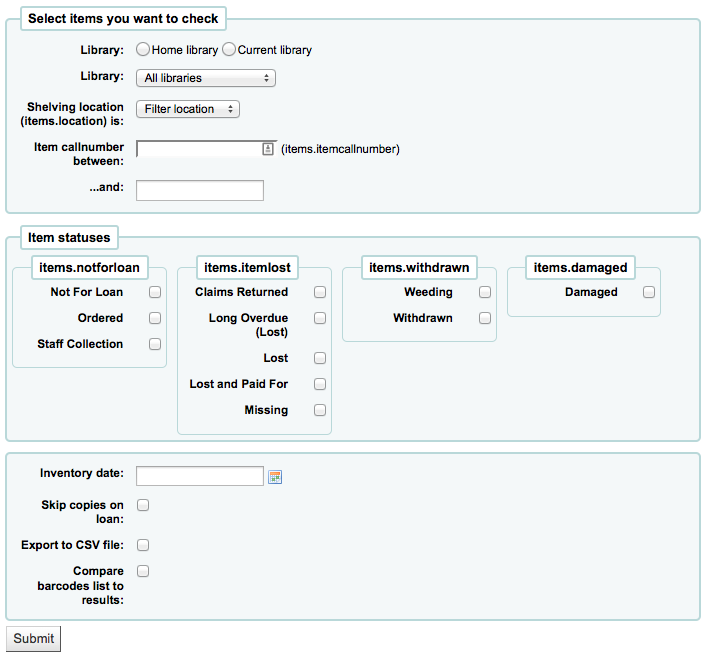
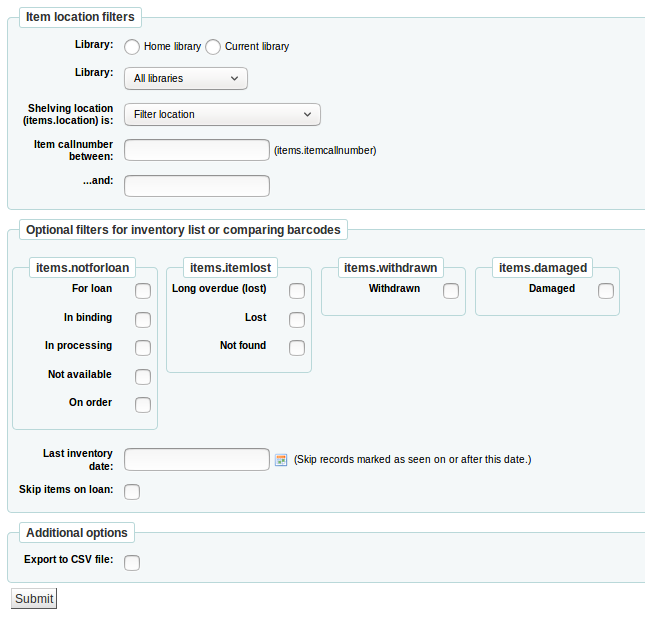
Updates Tools > Inventory section with improvements introduced in bug 19584 (Taiga #267)

Changed region(s): [[0.0, 0.0, 0.9922, 1.0], [0.4031, 0.7343, 0.8372, 0.7649], [0.9922, 0.8261, 1.0, 0.8567]]

diff --git a/source/tools.rst b/source/tools.rst
@@ -1938,9 +1938,11 @@ Inventory
 
 -  *Get there:* More > Tools > Catalog > Inventory
 
-Koha's Inventory Tool can be used in one of three ways:
+Koha's Inventory tool can be used in one of three ways:
 1. By printing out a shelf list that you can then mark items off on;
+
 2. By uploading a text file of barcodes gathered by a portable scanner;
+
 3. By comparing a text file of barcodes gathered by a portable scanner to a
    generated shelf list.
 
@@ -1955,8 +1957,10 @@ All parameters are optional, but if none are selected, the resulting list
 might be quite large.
 
 - Library: choose the branch you want to check, as well as if that branch
-  is the home library or the current of the items.
+  is the home library or the current holding library of the items.
+
 - Shelving location (items.location) is: you can filter by location.
+
 - Item callnumber between ... and ...: you can also limit the list to a specific
   range of callnumbers.
 
@@ -1967,6 +1971,7 @@ only the 'for loan' status as the other items probably won't be on the shelves.
 
 - Last inventory date: enter a date here to skip items that have been marked
   as seen recently.
+
 - Skip items on loan: check this box to filter out loaned items from the list.
 
 - Export to CSV file: check this box to generate a CSV file for altering in an
@@ -1985,15 +1990,17 @@ the three buttons to continue:
 
 - Mark seen and quit: updates the 'last seen' date of the checked items to
   today and returns to the previous screen.
+
 - Mark seen and continue: updates the 'last seen' date of the checked items to
   today and shows the next page of the list.
+
 - Continue without marking: doesn't update any of the items on this page
   and shows the next page of the list.
 
 If you have a portable scanner (or a laptop and USB scanner) you can
 walk through the library with the scanner in hand and scan barcodes as
-you come across them (on a laptop, scan the barcodes into a text file). Once finished you can then upload the text
-file generated by the scanner to Koha.
+you come across them (on a laptop, scan the barcodes into a text file). Once 
+finished you can then upload the text file generated by the scanner to Koha.
 
 |image317|
 
@@ -2006,27 +2013,33 @@ items scanned during inventory' before clicking 'Submit'.
 
 Alternatively, you can combine the two methods to automatically compare a list
 of scanned barcodes with a generated list. First, upload you barcode file and
-choose the date you want to appear in the items' 'last seen' field. Then, check
-the 'Compare barcodes list to results'. Choose the filters (library, shelving
-location, callnumbers or statuses) to generate a list with which to compare
-your barcodes. Click on 'Submit'.
+choose the date you want to appear in the items' 'last seen' field. The 'Compare 
+barcodes list to results' checkbox should automatically be checked. If you do 
+not want the scanned items to be automatically checked-in if they are checked-out, 
+make sure you check the 'Do not check in items scanned during inventory' checkbox. 
+Choose the filters (library, shelving location, callnumbers or statuses) to generate a 
+list with which to compare your barcodes. Click on 'Submit'.
 
-  **Note**
+    **Note**
 
-  Depending on the number of barcodes you are comparing, this may take a few
-  minutes. It is not recommended to compare lists of more than 1000 barcodes as
-  this may cause a session timeout.
+    Depending on the number of barcodes you are comparing, this may take a few
+    minutes. It is not recommended to compare lists of more than 1000 barcodes as
+    this may cause a session timeout.
 
 Once Koha has finished comparing the barcodes file to the generated list, it
 will return the number of items updated and a list of problematic items.
 
 - Missing (not scanned): the item is in the generated list but not in the
   barcodes file.
+
 - Found in wrong place: the item is in the barcodes list, but not in the
   generated list.
+
 - Still checked out: the item is checked out, but is in the generated list. It
   was not automatically checked in.
+
 - Barcode not found: the barcode doesn't exist.
+
 - Item withdrawn: the item has 'withdrawn' status, but it is in the barcodes
   file.
 
